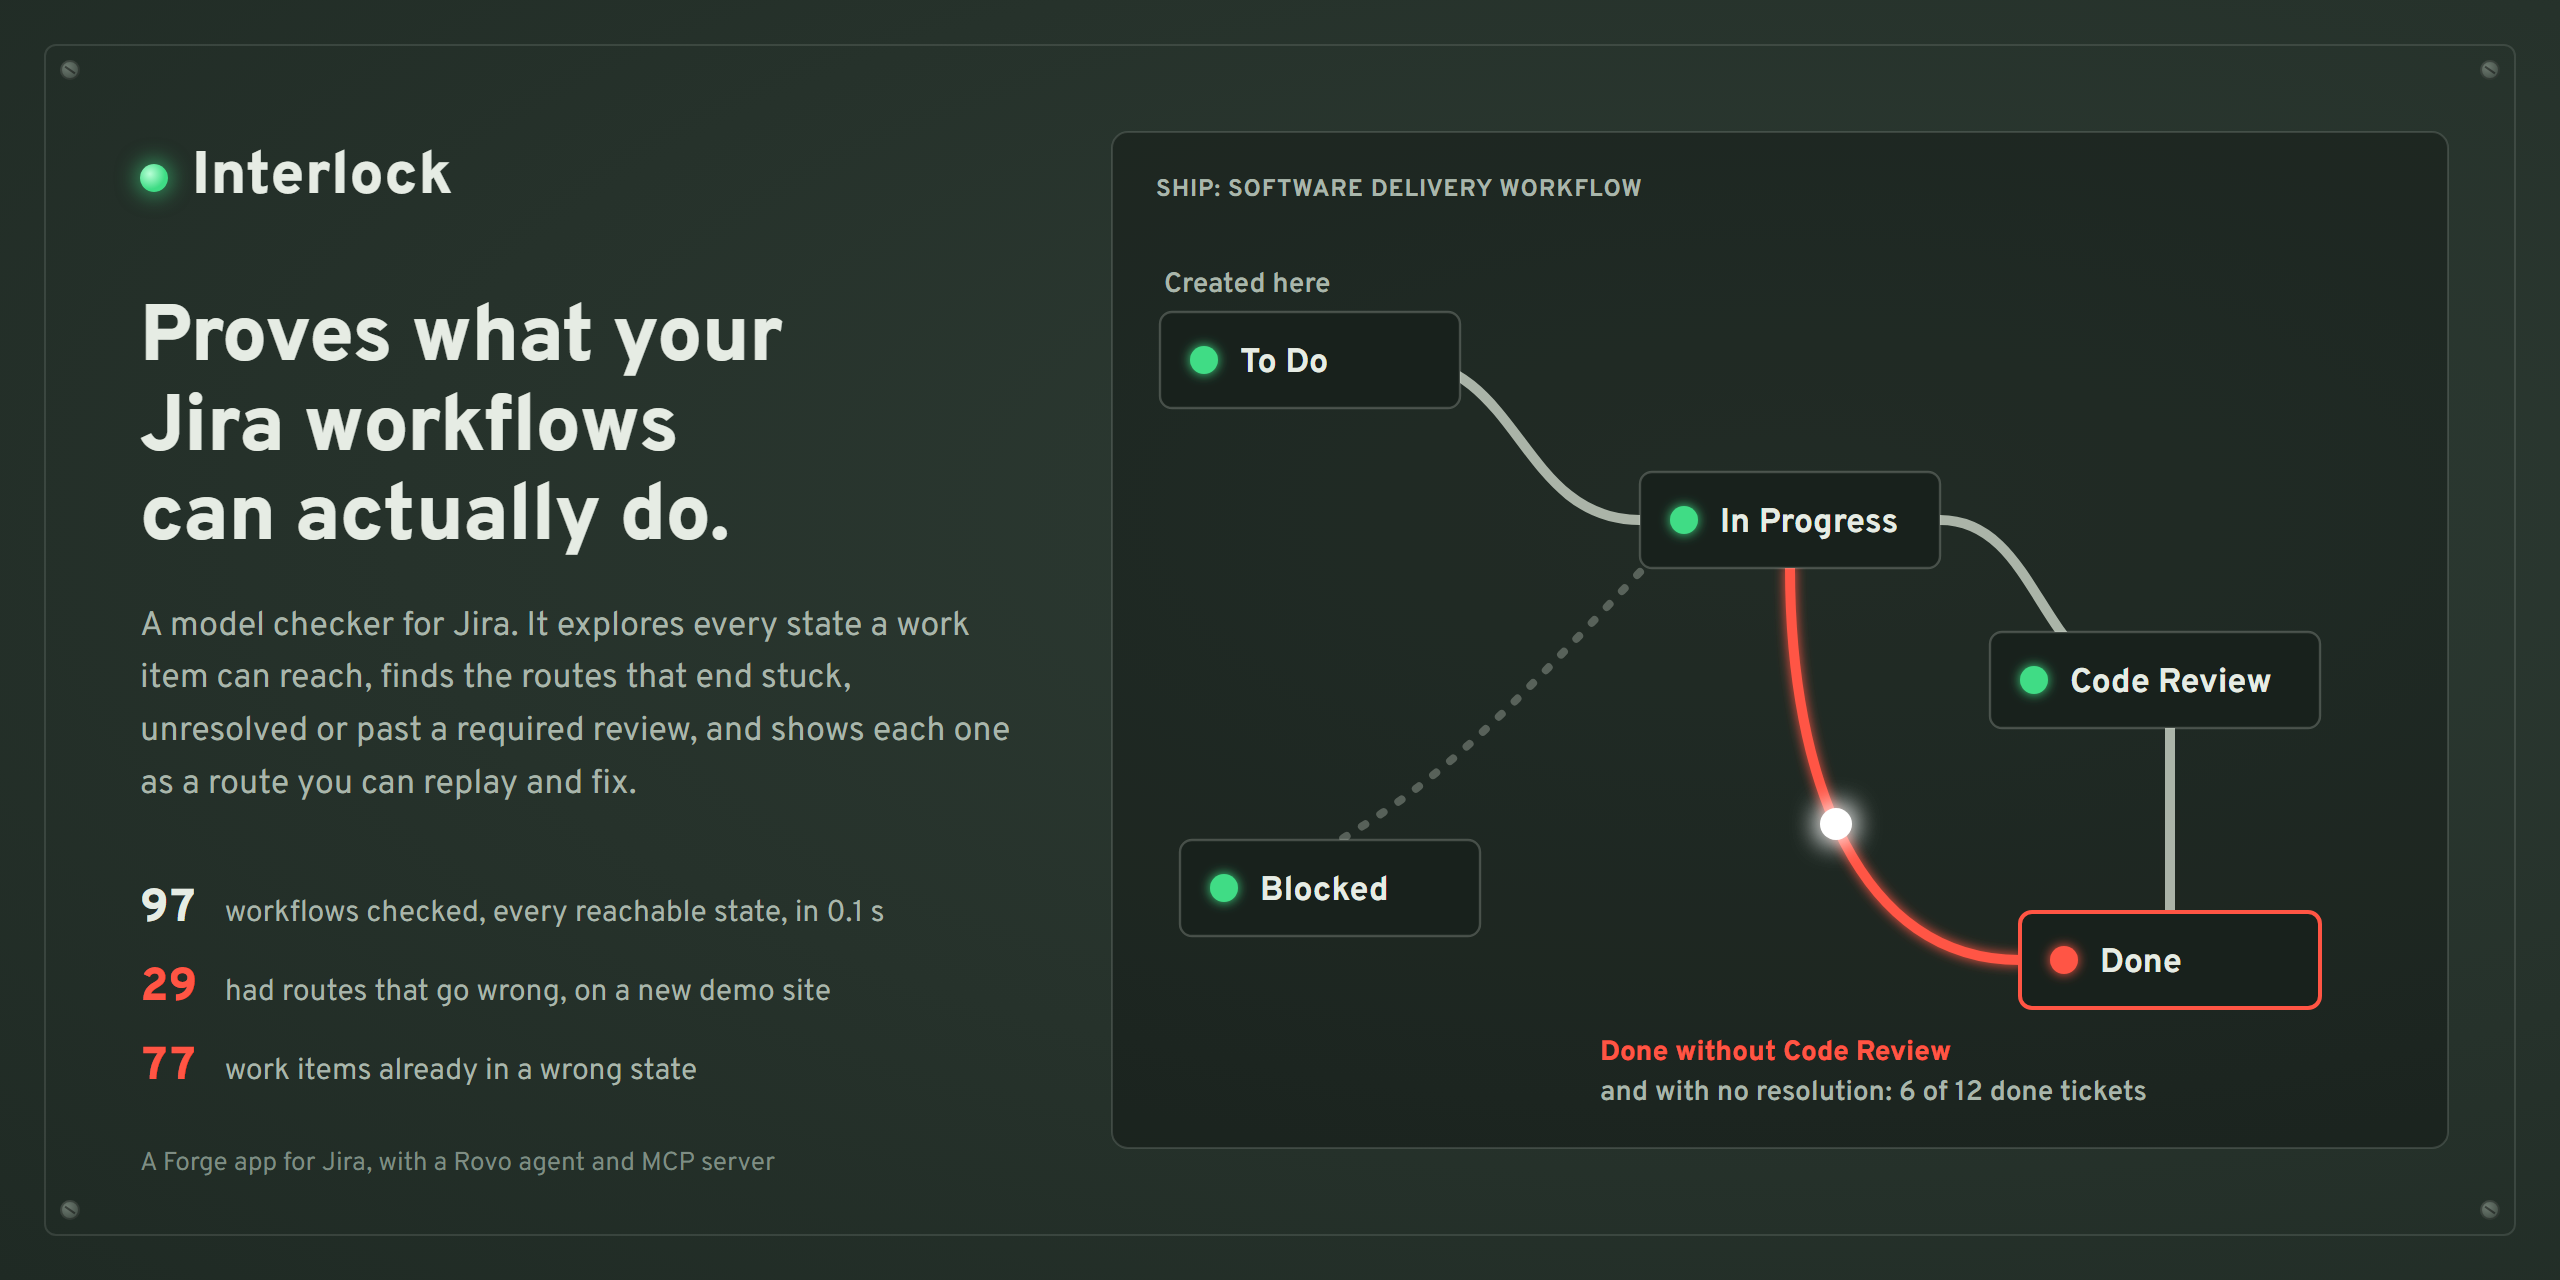
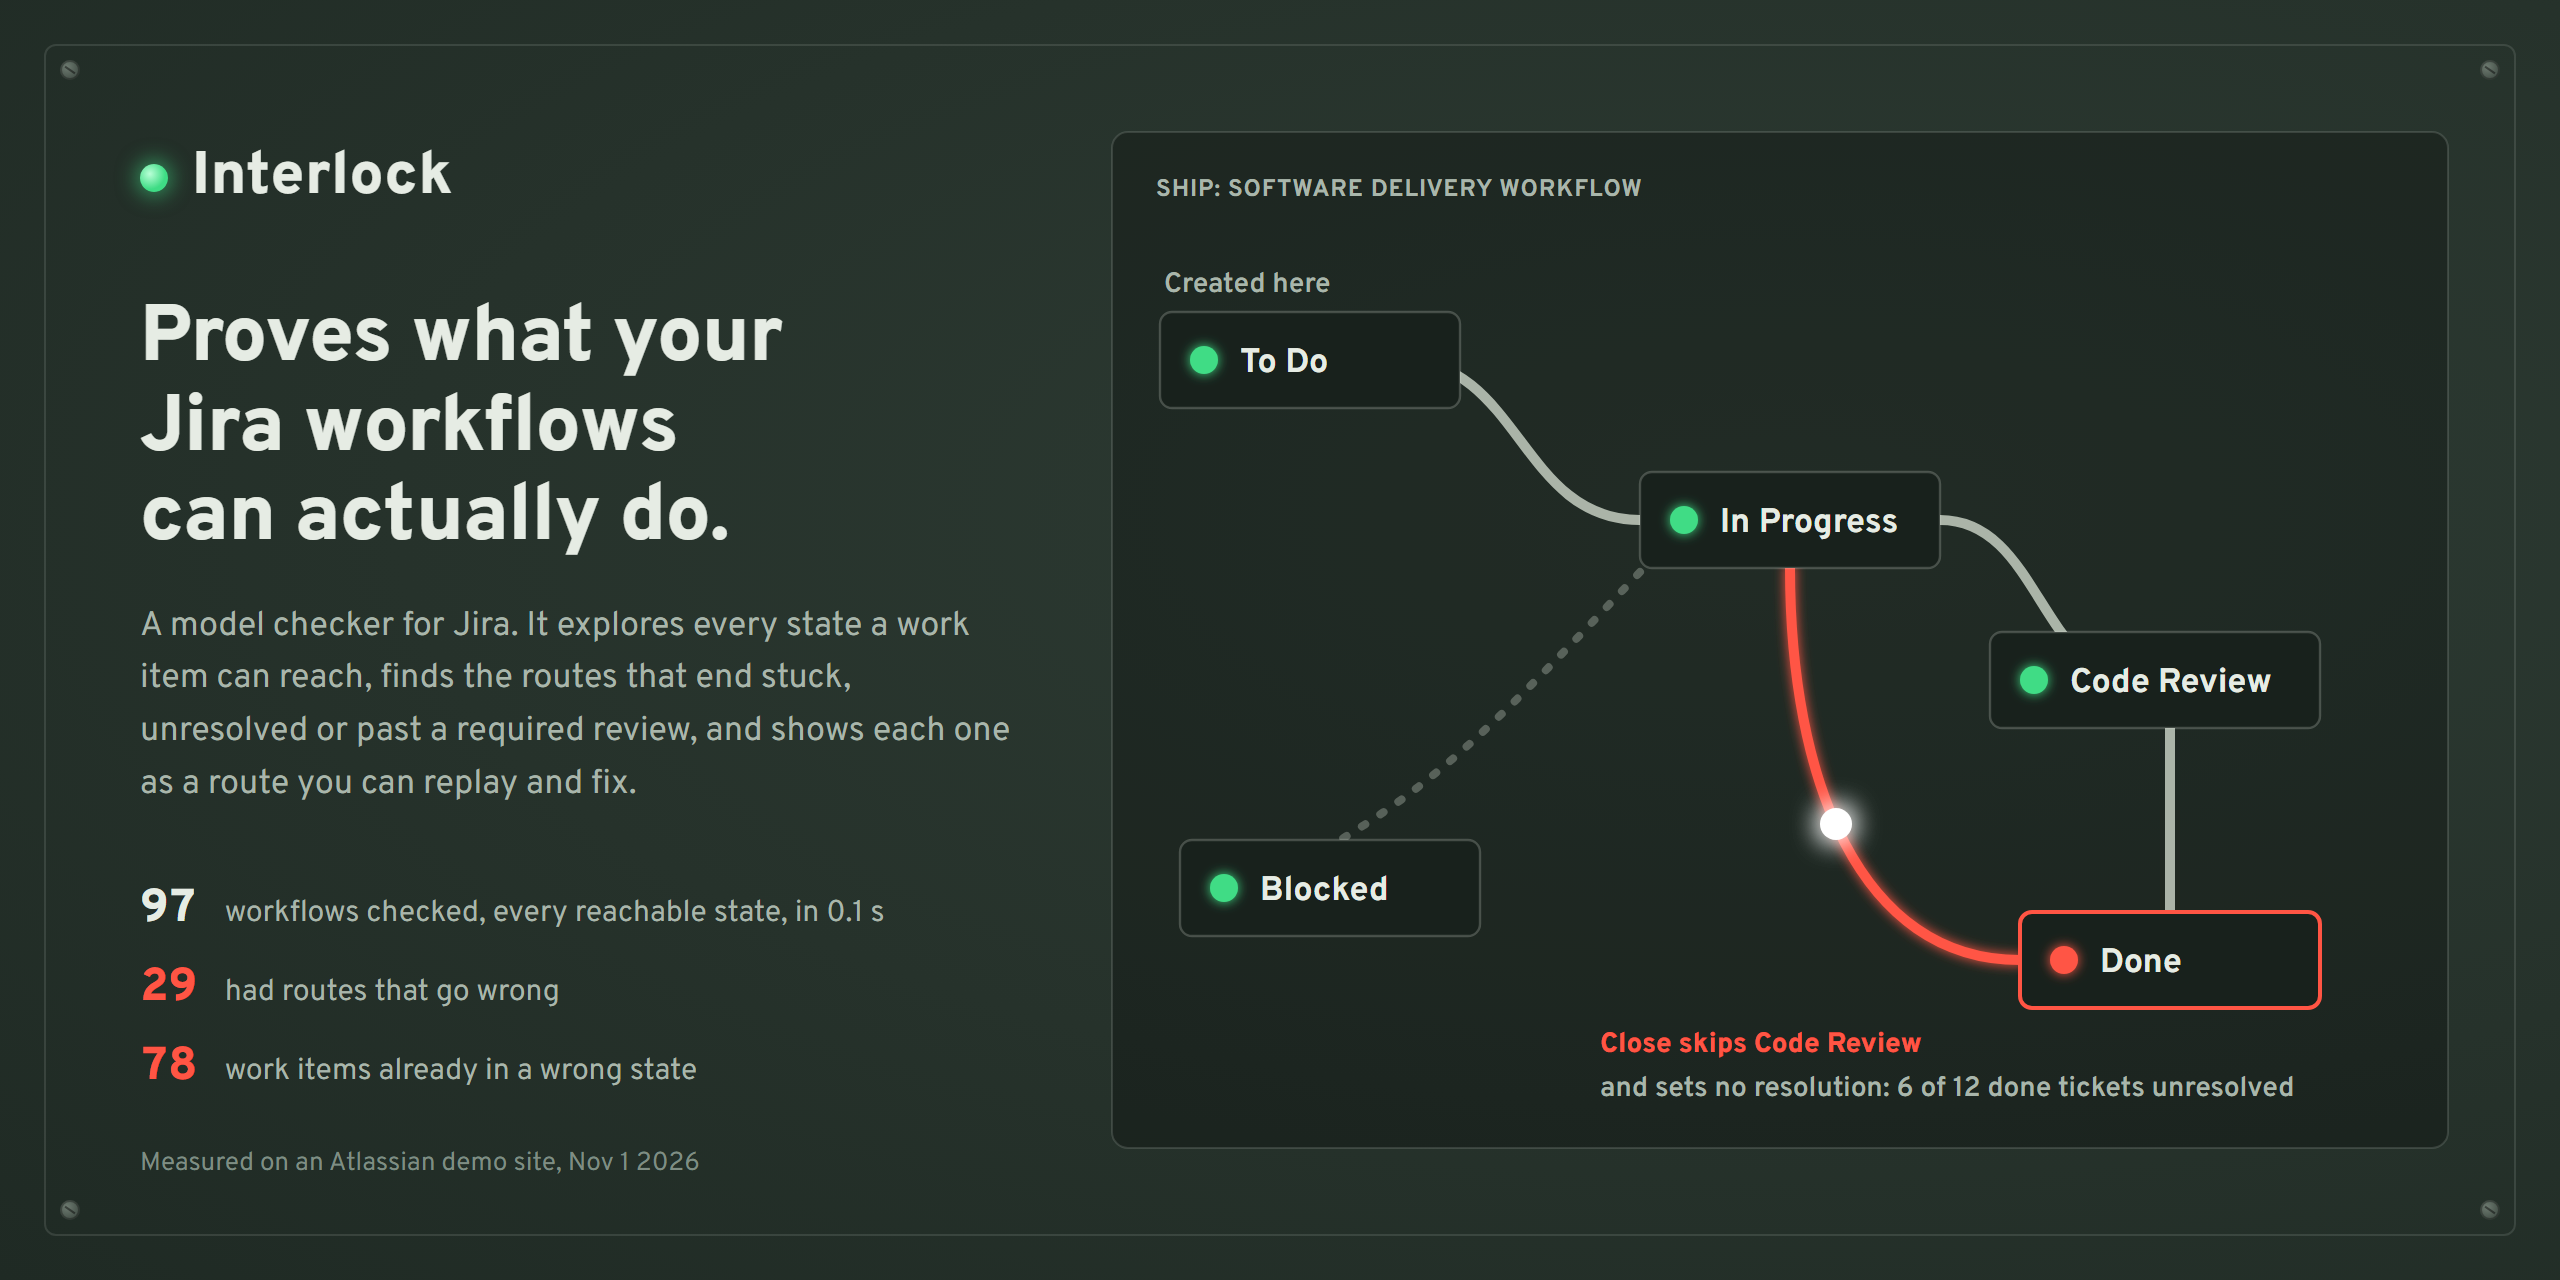
Dated, consistent numbers in README and cover; cover callout names the transition

diff --git a/docs/cover/cover.html b/docs/cover/cover.html
@@ -47,11 +47,11 @@ svg.mimic { position: absolute; right: 50px; top: 60px; width: 680px; height: 52
   <p class="lede">A model checker for Jira. It explores every state a work item can reach, finds the routes that end stuck, unresolved or past a required review, and shows each one as a route you can replay and fix.</p>
   <dl>
     <dt>97</dt><dd>workflows checked, every reachable state, in 0.1 s</dd>
-    <dt class="red">29</dt><dd>had routes that go wrong, on a new demo site</dd>
-    <dt class="red">77</dt><dd>work items already in a wrong state</dd>
+    <dt class="red">29</dt><dd>had routes that go wrong</dd>
+    <dt class="red">78</dt><dd>work items already in a wrong state</dd>
   </dl>
 </div>
-<div class="foot">A Forge app for Jira, with a Rovo agent and MCP server</div>
+<div class="foot">Measured on an Atlassian demo site, Nov 1 2026</div>
 
 <svg class="mimic" viewBox="0 0 680 520">
   <defs>
@@ -78,8 +78,8 @@ svg.mimic { position: absolute; right: 50px; top: 60px; width: 680px; height: 52
   <g class="blk bad" transform="translate(460,396)"><rect width="150" height="48" rx="6"/><circle cx="22" cy="24" r="7"/><text x="40" y="30">Done</text></g>
 
   <text class="lbl" x="32" y="86">Created here</text>
-  <text class="lbl red" x="250" y="470">Done without Code Review</text>
-  <text class="lbl" x="250" y="490">and with no resolution: 6 of 12 done tickets</text>
+  <text class="lbl red" x="250" y="466">Close skips Code Review</text>
+  <text class="lbl" x="250" y="488">and sets no resolution: 6 of 12 done tickets unresolved</text>
 
   <!-- the train, part way along the bypass -->
   <circle class="train" r="8" cx="368" cy="352"/>

diff --git a/README.md b/README.md
@@ -24,7 +24,7 @@ Each finding comes with the shortest route that breaks the property, from creati
 A proof says what *can* happen. Interlock then takes each finding as far as it can go:
 
 1. **Proved.** The model checker found the route.
-2. **In your data.** For resolution findings, Interlock counts the work items in the projects using that workflow that are already in the bad state, using Jira's own search. On a new Atlassian demo site, 77 work items were already wrong before anything was changed.
+2. **In your data.** For resolution findings, Interlock counts the work items in the projects using that workflow that are already in the bad state, using Jira's own search. On an Atlassian demo site on Nov 1, 2026, before we added anything, 29 of its 97 workflows had routes that go wrong and 78 work items in its sample projects were already in a wrong state.
 3. **Replayed.** One click creates a new work item and walks it down the route through Jira's transitions API. It then reports what Jira actually did, including any board column or automation rule that sets the resolution on the way, which would make the route safe.
 
 Then **fix at the cause**: for resolution findings, Interlock adds *Set resolution* or *Clear resolution* to the transitions involved. Jira validates the change first, and Interlock saves it only when an admin clicks Apply. The whole site is then proved again.
@@ -51,7 +51,7 @@ On a site with no software project, **Add the Ship demo project** builds a reali
   - whether its conditions let anyone use it.
 - A breadth-first search over (status, resolution set) states finds every reachable state, with parent links, so every finding comes with its shortest route.
 - Team-managed projects keep the resolution in step with done statuses themselves, and the model knows that.
-- Checking all 97 workflows on the demo site, 761 transitions in all, takes about 100 ms. The engine is plain JavaScript with no dependencies, and the page runs it again in the browser whenever you change a rule.
+- Checking all 97 workflows on that demo site, 761 transitions in all, takes about 100 ms once the configuration is loaded (loading it over the REST API takes a few seconds). The engine is plain JavaScript with no dependencies, and the page runs it again in the browser whenever you change a rule.
 
 ## Permissions
 
